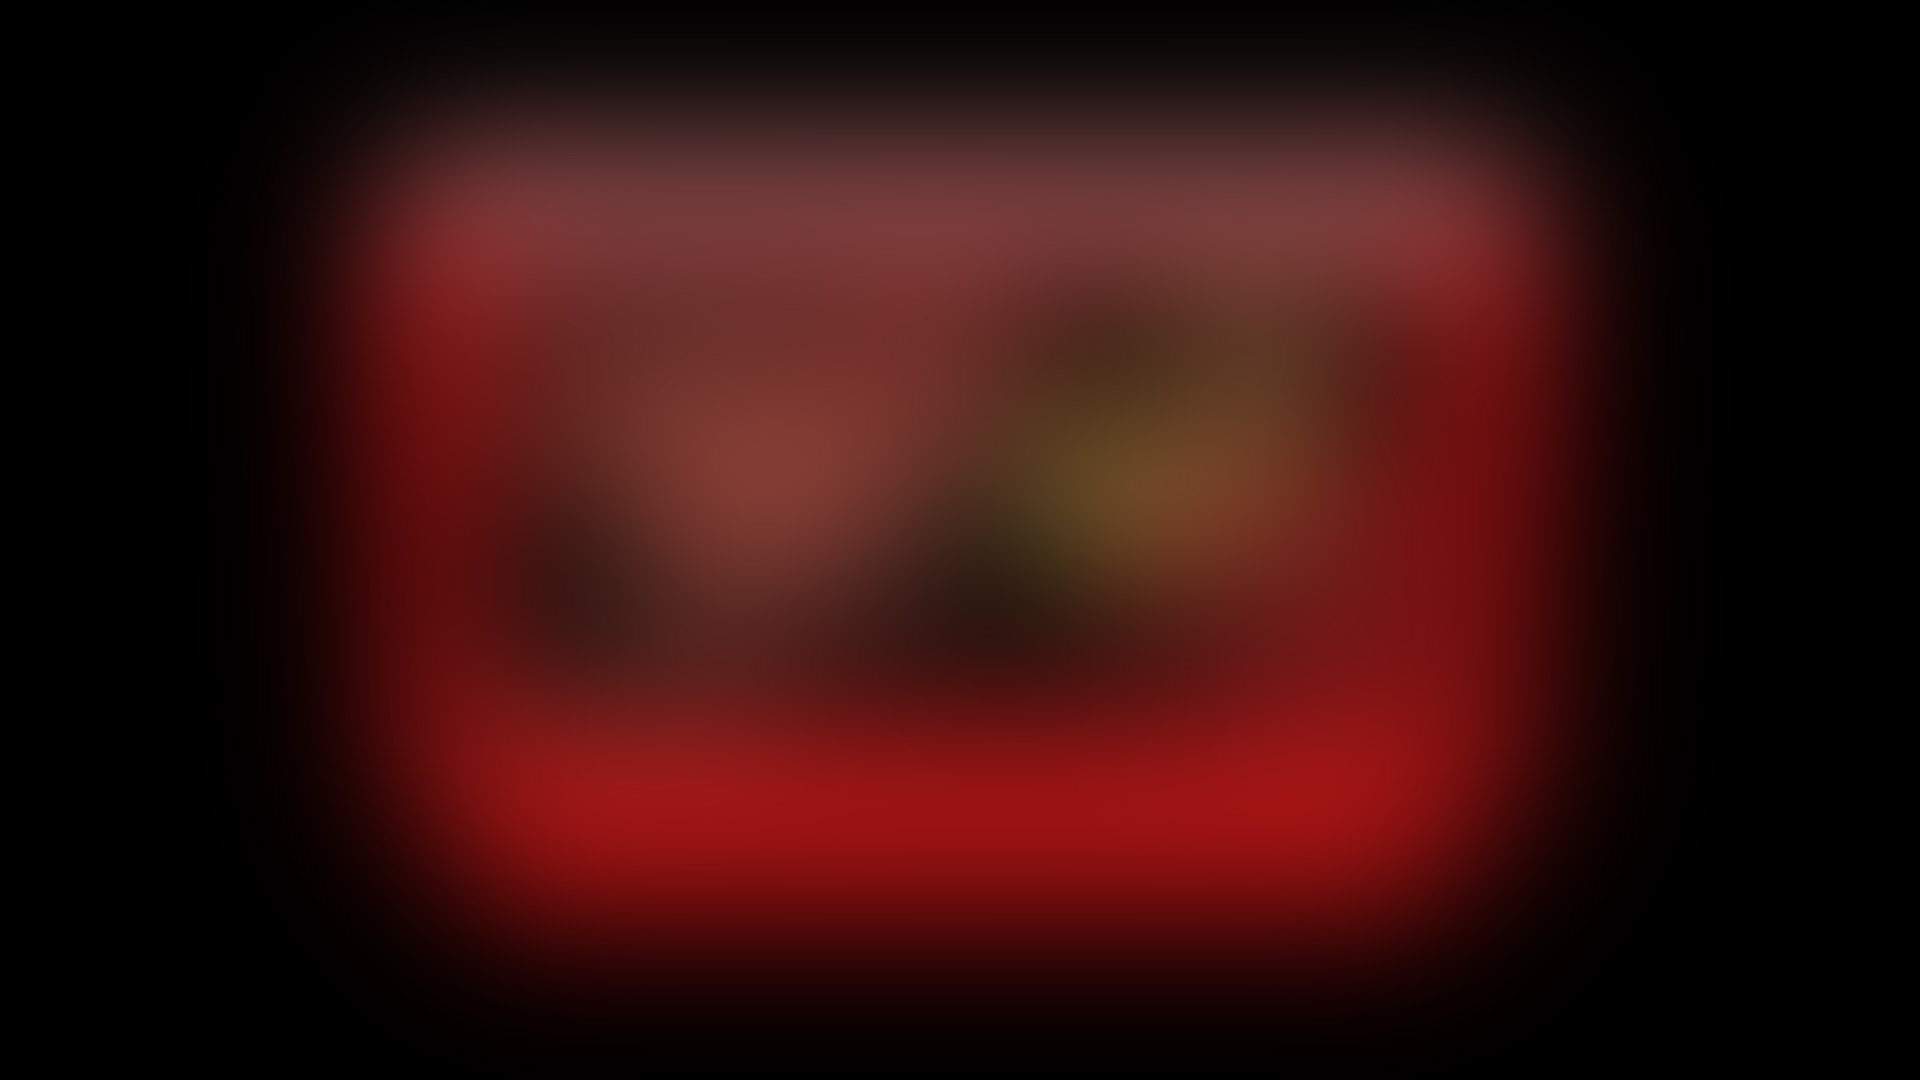
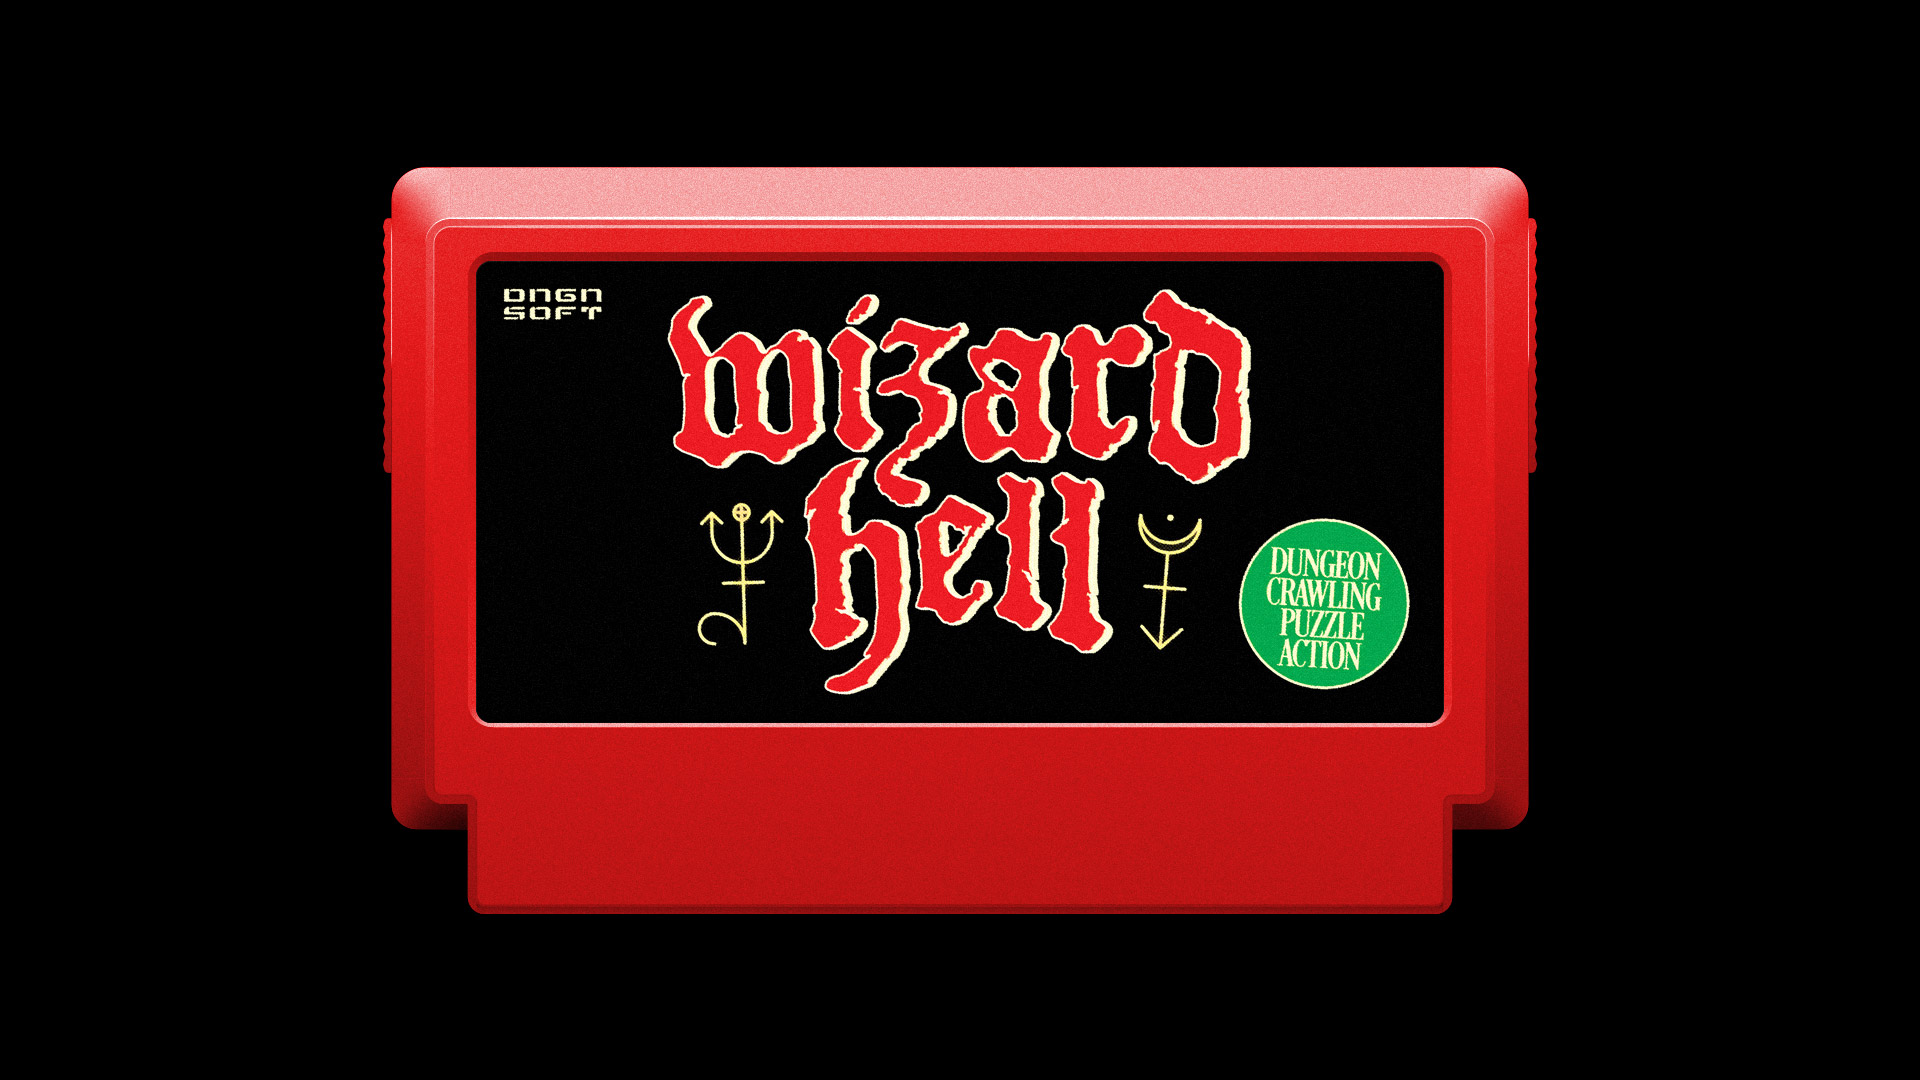
famicase day

diff --git a/famicase.html b/famicase.html
@@ -43,7 +43,7 @@
 
 <article>
 <img src="images/famicase-2026.jpg">
-<p>2026: COMING SOON<!-- Write your comments here2026: Wizard Hell → <a href="http://famicase.com/26" target="_blank">View More</a> <small>// Illustration by <a href="https://www.pixiv.net/en/users/5887541" target="_blank">とり夫</a> --></small></p>
+<p>2026: Wizard Hell → <a href="http://famicase.com/26" target="_blank">View More</a></small></p>
 <hr>
 </article>
     
